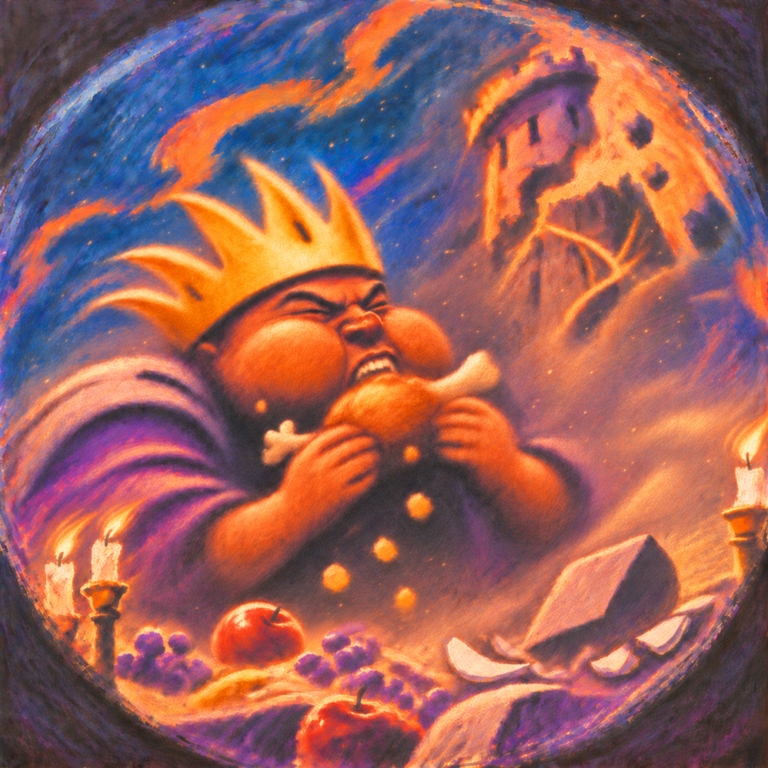
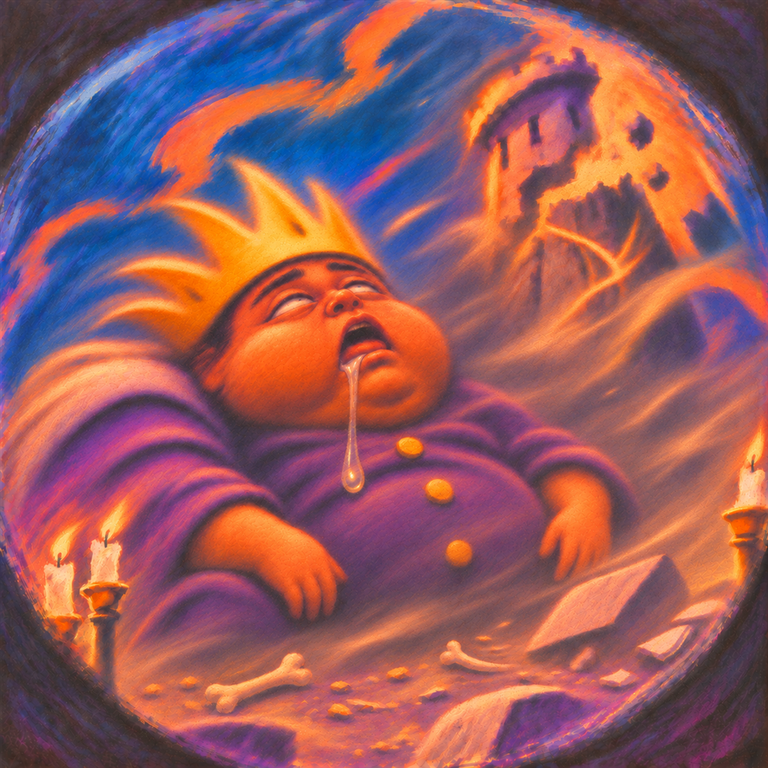
25차: 미래 보기 속도 낮춤, 색욕 뽀뽀 1번, 식탐 끝을 침 흘리기로, 집착 실 연쇄 처치 버그
- 미래 보기: 분노를 뺀 6죄종 FateOrbView.loops ticks 2 → 3 (초당 6장 → 4장)
- 색욕: 뽀뽀 장 action_003, 008 을 intro 에서 빼서 013 한 번만 (그림은 그대로)
- 식탐: action 15·16 과 반복 12장을 Codex 로 다시 그림 (다 먹고 뒤로 젖혀져 침을 흘리며 반복). sins_v3.json 프롬프트도 바꿈
- 버그: 욕망 '집착'으로 옮겨붙은 실을 우클릭 연타로 또 당기면 끝없이 연쇄 처치되고 털실도 공짜로 돌려받던 것.
  Strand.moved 로 옮겨붙은 실은 한 번만 옮겨가고 털실을 돌려주지 않게 함. 테스트 ObsessionStrandsMoveOnlyOnce, EditMode 92개 통과

diff --git a/Assets/Scripts/Tests/CombatTests.cs b/Assets/Scripts/Tests/CombatTests.cs
@@ -796,5 +796,28 @@ namespace TOD.Tests
             ActiveSet greed = combat.MainSet(r);
             Assert.AreEqual((int)(a.type.gold) + Mathf.RoundToInt(greed.def.extra * greed.tier), r.drops.Sum(d => d.gold), "처치 금화 + 저당 금화");
         }
-}
+
+        // 25차: 욕망 '집착'으로 옮겨붙은 실은 한 번만 옮겨간다. 예전엔 바늘 몇 발 꽂고 우클릭을 연타하면
+        // 옮겨붙은 실로 또 당기고 또 옮겨붙어 주변 적이 전부 죽었고, 당길 때마다 털실도 공짜로 돌려받았다.
+        [Test]
+        public void ObsessionStrandsMoveOnlyOnce()
+        {
+            RunState r = NewRun();
+            r.roundKind = RoundKind.Rest;
+            r.player.x = 500; r.player.y = 350;
+            r.desires.Add("obsession");
+            var enemies = new System.Collections.Generic.List<Enemy>();
+            for (int i = 0; i < 5; i++) { Enemy e = Add(r, "stalker", 650 + i * 30, 350); e.hp = 1; enemies.Add(e); }
+            for (int i = 0; i < 3; i++) r.strands.Add(new Strand { x = enemies[0].x, y = enemies[0].y, target = enemies[0], state = StrandState.Stuck, element = Element.Plain });
+            r.yarn = 0;
+            for (int k = 0; k < 20; k++)
+            {
+                r.freeze = 0; r.frameStop = false;
+                combat.Update(r, .0001f, new CombatInput { pull = true, aim = new Vector2(500, 0) });
+            }
+            Assert.AreEqual(2, r.kills, "첫 당기기로 1마리, 옮겨붙은 실로 1마리까지만");
+            Assert.AreEqual(0, r.strands.Count, "옮겨붙은 실은 다시 옮겨가지 않음");
+            Assert.LessOrEqual(r.yarn, Mathf.Ceil(3 / 2f) + .001f, "옮겨붙은 실은 털실을 다시 돌려주지 않음");
+        }
+    }
 }

diff --git a/Assets/Scripts/Runtime/Sim/Combat.cs b/Assets/Scripts/Runtime/Sim/Combat.cs
@@ -684,10 +684,13 @@ namespace TOD
             if (kg != null && kg.Has(ItemEffect.Devour)) HealPlayer(r, kg.Effect(ItemEffect.Devour));
             if (r.desires.Contains("hunger")) HealPlayer(r, db.desire.hungerHeal);
             WeatherOnKill(r);   // 24차 식탐 허기: 처치하면 조금 채움
-            if (stuck.Count > 0 && r.desires.Contains("obsession"))
+            // 욕망 '집착': 처치된 적의 실이 가까운 적에게 옮겨붙는다. 25차: 한 번만 (옮겨붙은 실은 다시 안 옮겨감),
+            // 털실은 이미 처음 당길 때 돌려받았으므로 옮겨붙은 실은 extra (당겨도 털실을 안 돌려줌). 예전엔 우클릭 연타로 끝없이 연쇄 처치됐다.
+            List<Strand> movable = stuck.Where(s => !s.moved).ToList();
+            if (movable.Count > 0 && r.desires.Contains("obsession"))
             {
                 Enemy nearby = r.enemies.Where(o => o.hp > 0 && o != e).OrderBy(o => Distance(o, e)).FirstOrDefault();
-                if (nearby != null) r.strands.AddRange(stuck.Select(s => { Strand copy = s.Copy(); copy.target = nearby; return copy; }));
+                if (nearby != null) r.strands.AddRange(movable.Select(s => { Strand copy = s.Copy(); copy.target = nearby; copy.moved = true; copy.extra = true; return copy; }));
             }
             if (boss) { StartBossDeath(r, e); return; }
             if (e.cut != null)

diff --git a/Assets/Scripts/Runtime/Sim/RunState.cs b/Assets/Scripts/Runtime/Sim/RunState.cs
@@ -86,6 +86,7 @@ namespace TOD
         public StrandState state;
         public bool bounce;
         public bool extra;                    // 여러 갈래 바늘(Multishot)로 덤으로 나간 바늘 — 털실을 쓰지 않았으므로 당길 때 돌려받지 않는다
+        public bool moved;                    // 25차: 욕망 '집착'으로 이미 한 번 옮겨붙은 실 — 다시는 옮겨가지 않는다 (우클릭 연타 연쇄 처치 막기)
         public Element? element;              // 대쉬 흔적이 만든 실은 속성이 없다 → 등반의 속성을 쓴다
         public Vector2 bite;
         public Strand Copy() => (Strand)MemberwiseClone();

diff --git a/HANDOFF.md b/HANDOFF.md
@@ -85,6 +85,16 @@
   - 플레이(자동 조작 + 시간 건너뛰기)로 확인: 생존 R1 타이머 → 시간 종료 → 계단·"E 위로 올라가기" → R2(새 컨셉) → 쉬어가기(제단·상인·계단, 아티팩트 대화 상자) → 보스 → 정화 고리·줌아웃·바닥 회복 → 계단에서 E → 욕망 제안 → 2층. 바늘이 손 높이로 날다 수직으로 박히고 원이 보임. 욕망 95%에서 붉은 막.
   - 남은 것: 사람이 직접 한 플레이, 일렁임 움직임(정지 화면으로는 확인 불가), 당기기 잔상 수정의 눈 확인, 값 다듬기(정화된 바닥이 조금 밝고 평평함, 계단 바닥 빛이 단단한 원판으로 보임).
 
+## 25차 (2026-11-26 저녁) — 미래 보기 속도, 색욕 뽀뽀 1번, 식탐 끝 침 흘리기, 우클릭 광클 버그 — 완료(커밋 전)
+
+> 사용자 요청: "7개 미래 보기 영상이 너무 빠름. 분노는 그대로, 나머지 느리게. 색욕은 뽀뽀 3번 → 1번. 식탐은 먹다 끝나서 웃기니 다 먹고 침 질질 흘리며 끝나게. 인게임: 좌클릭으로 꽂고 우클릭 광클하면 실이 다 꽂히면서 다 죽는 버그."
+
+- [x] 속도: 분노 빼고 6죄종 `FateOrbView.loops[].ticks` 2 → 3 (12fps 에 한 장 3틱 = 초당 4장, 1.5배 느림). MCP 로 넣고 씬 저장.
+- [x] 색욕: 뽀뽀 장이 action_003, 008, 013 셋 → 003·008 을 intro 에서 빼고 013 하나만(14장, 그림 새로 안 그림. 009 는 얼굴이 떨어지고 하트만이라 둠). 파일은 그대로 있음(intro 배열에서만 뺌).
+- [x] 식탐: `sins_v3.json` gluttony action 15·16, ambient 를 '다 먹고 침 흘림'으로 바꿈. 옛 action_015·016·loop 12 장은 `art_src/fate_loop/_old/gluttony_eating_end/`(커밋 안 함). Codex 로 다시(한도 안 걸림, 첫 시도에 모두): action 15 = 마지막 한 입 삼키고 뼈가 떨어짐, 16 = 다 먹고 뒤로 젖혀져 침을 질질(참고 action_014 고정) → loop 1~12 = 같은 자세에서 침이 늘어졌다 줄었다 + 촛불·먼지(참고 새 action_016, 두 줄 동시). 위치 어긋남 0px(위상 상관), 12→1 차이 작음. 스크립트는 세션 스크래치 `run_glut.sh`(= run_fate.sh 방식, 로그 `tools/codex_prompts/fate_logs/gluttony2_*`). `python tools/bake_fate_loop.py gluttony` → 같은 파일 이름이라 씬 연결 그대로.
+- **플레이 확인:** 재봉실 `DevShowFate` → `AdvanceFate`, `EditorApplication.update` 에서 `FateOrbView.LoopFrame`(리플렉션) 이름이 바뀌는 시각을 기록. 식탐: 한 장 .25초(초당 4장), action_016 → loop_001~012 반복, 캡처 `Temp/Shots/fate25_gluttony_drool.png`. 색욕: 001, 002, 004~007, 009~016 → loop(003·008 안 나옴). 콘솔 오류 0. 잠금 풀어 둠.
+- [x] 우클릭 광클 버그: 원인은 욕망 **'집착'**(적이 죽으면 꽂힌 실이 가까운 적에게 옮겨붙음). 옮겨붙은 실을 바로 또 당기면 또 죽이고 또 옮겨붙어 끝없이 연쇄 처치, 당길 때마다 털실도 공짜로 돌려받았음(재현: 바늘 3발 → 4프레임마다 우클릭 → 6마리 전멸. 집착 없으면 1마리). → `Strand.moved`: 옮겨붙은 실은 다시 안 옮겨가고 `extra`(털실 안 돌려줌). 고친 뒤 같은 재현 2마리, 실 0. 테스트 `CombatTests.ObsessionStrandsMoveOnlyOnce`, EditMode 92개 통과.
+
 ## 24차 (2026-11-25 시작) — 상성 제거, 층 날씨 디버프, 예언 = 세트 가중치(2단 룰렛), 미래 보기 셀 애니메이션 — 진행 중
 
 ### 결정 (사용자)
